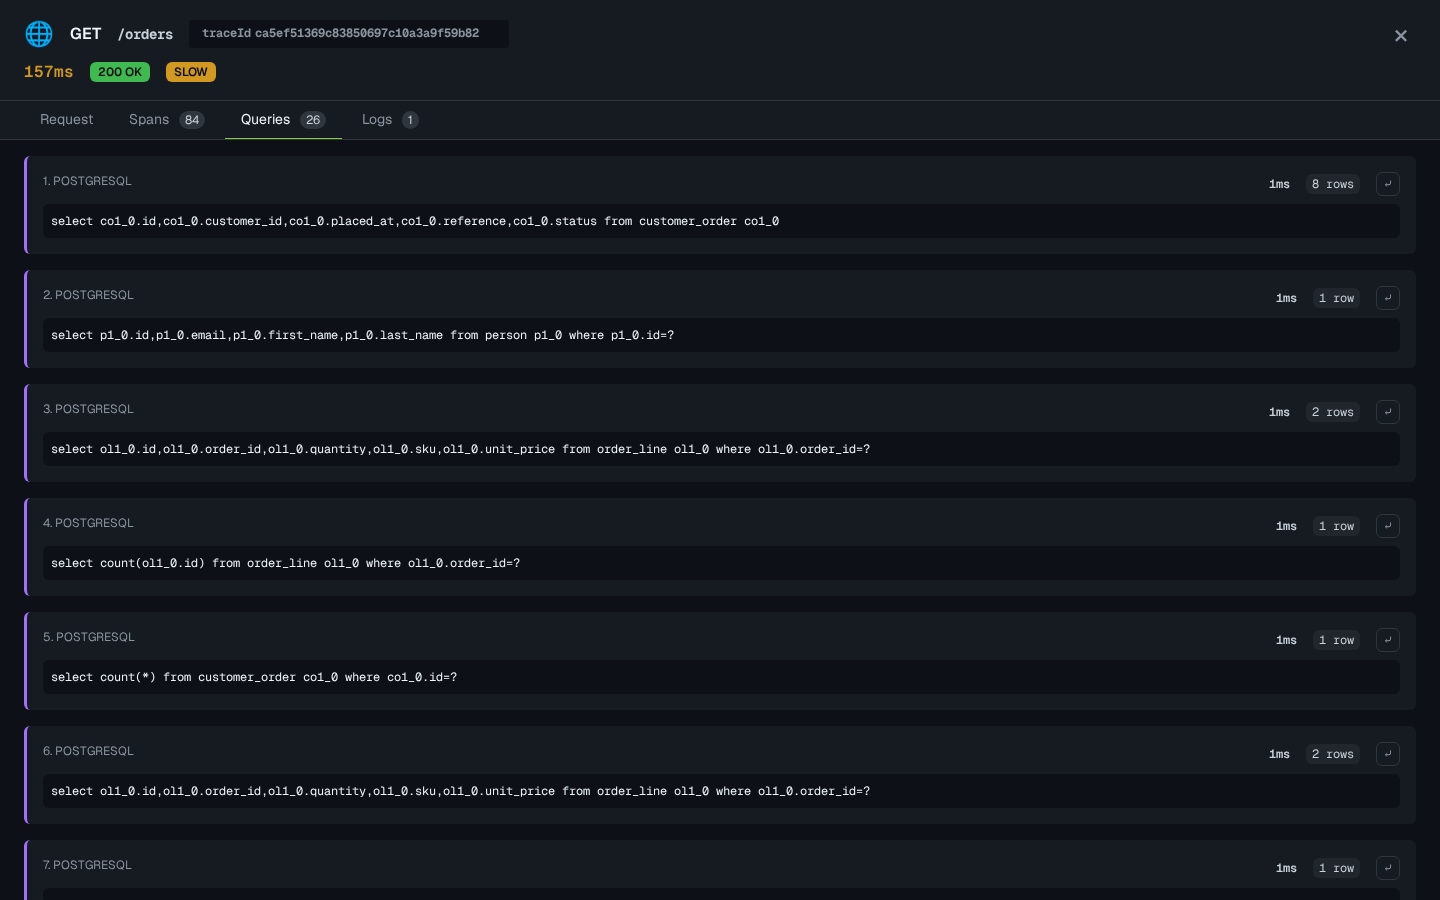
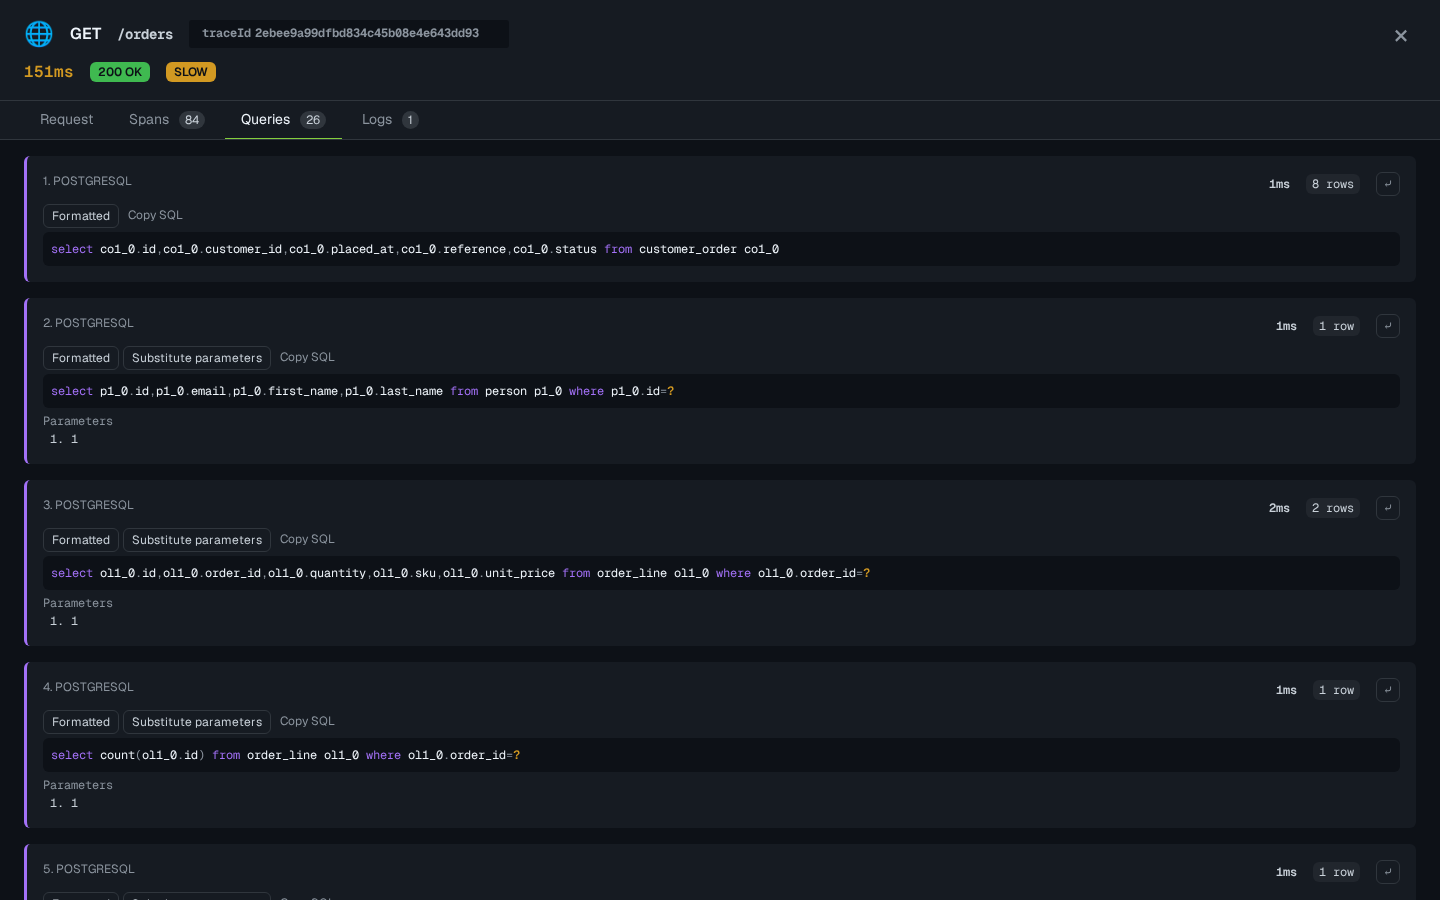
docs: show SQL formatting and bind parameters

diff --git a/docs/security.md b/docs/security.md
@@ -76,12 +76,14 @@ This is the complete list. Anyone who can reach `/peekaboot/**` can read all of 
 | Start and stop history with version, branch, commit and build time per run, unclean shutdowns | Lifecycle tab, `/peekaboot/api/lifecycle/**` | No |
 | Micrometer meters: names, tags, measurements | Meters tab | Tag values by key and by value shape |
 | Up to 30 days of CPU, memory, thread, HTTP, connection-pool and log-event history, and the list of collected meters | Insights tab, `/peekaboot/api/insights/**` | No |
-| Request traces: span tree, span names, timings, tags, error messages, SQL text | Traces tab, toolbar | Tags, error messages and SQL by value shape only |
+| Request traces: span tree, span names, timings, tags, error messages, SQL text and bind parameters | Traces tab, toolbar | Tags, error messages, SQL and bind parameters by value shape only |
 | With the toolbar on: request and response headers, query and form parameters, resolved controller | Traces tab, toolbar | Headers and parameters by key and by value shape |
 | With the toolbar on: the message of every log event emitted inside a trace | Logs tab of a trace | No |
 
 SQL text is shown as your JDBC instrumentation records it, literal values included where the
-statement or the instrumentation carries them. Request and response bodies are never captured.
+statement carries them. Bind parameters are shown too, recorded on the query's span. An
+application that also exports its traces, over OTLP say, sends them along unmasked. Request
+and response bodies are never captured.
 A log event emitted outside a trace is dropped.
 
 With the toolbar on, every response carries
@@ -157,7 +159,7 @@ Masking is on by default and has nothing to configure. It replaces a value with 
 - environment and `@ConfigurationProperties` values
 - health details, `info.build` and datasource connection parameters
 - Micrometer meter tags
-- captured headers, query and form parameters, span tags, span error messages and SQL text
+- captured headers, query and form parameters, span tags, span error messages, SQL text and bind parameters
 - the last failure message of a scheduled task
 - the database connection parameters in Peekaboot's startup log line
 

diff --git a/docs/traces.md b/docs/traces.md
@@ -150,11 +150,11 @@ tabs and opens on Spans.
 
 Spans shows the span tree with each span's kind, tags and duration, nested as they ran. Click
 a span's name for its details: kind, a copyable span id, and where they apply the error class
-and message, the SQL, and the full tags.
+and message, the query's statement, and the full tags.
 
 <figure class="image">
   <img src="{{ '/assets/img/screenshots/trace-detail-queries-light.png' | relative_url }}"
-       alt="The Queries tab for the same GET /orders request, listing 26 PostgreSQL statements with their duration and row count, each showing the actual lower-case select ... from SQL text rather than a span name"
+       alt="The Queries tab for the same GET /orders request, listing 26 PostgreSQL statements, each with duration and row count, highlighted SQL, Formatted and Substitute parameters toggles, a Copy SQL button, and a numbered Parameters list"
        loading="lazy">
 </figure>
 
@@ -163,6 +163,13 @@ the instrumentation records it. A query at or above
 `peekaboot.ui.tracing.slow-query-threshold-ms` (default 50ms) is marked SLOW. A JDBC batch is
 one row with its statements joined. A query recorded without statement text is listed without
 SQL.
+
+A statement shows as captured, highlighted. With Hibernate on the classpath, Formatted lays it
+out the way Hibernate's `format_sql` log does. Its bind parameters are listed under it, one list
+per batch entry, masked like the SQL. Substitute parameters puts them in place of the `?`
+placeholders when there is one set and it fits. The copy button copies the SQL as shown. A bind
+value over 1000 characters is cut with a comment like `/* 7 characters omitted */`; a batch
+records at most 100 parameter sets.
 
 Logs lists the log lines written while handling the request, filterable by text, level and
 span. Request shows the method, path, query string, status, duration, controller method,
